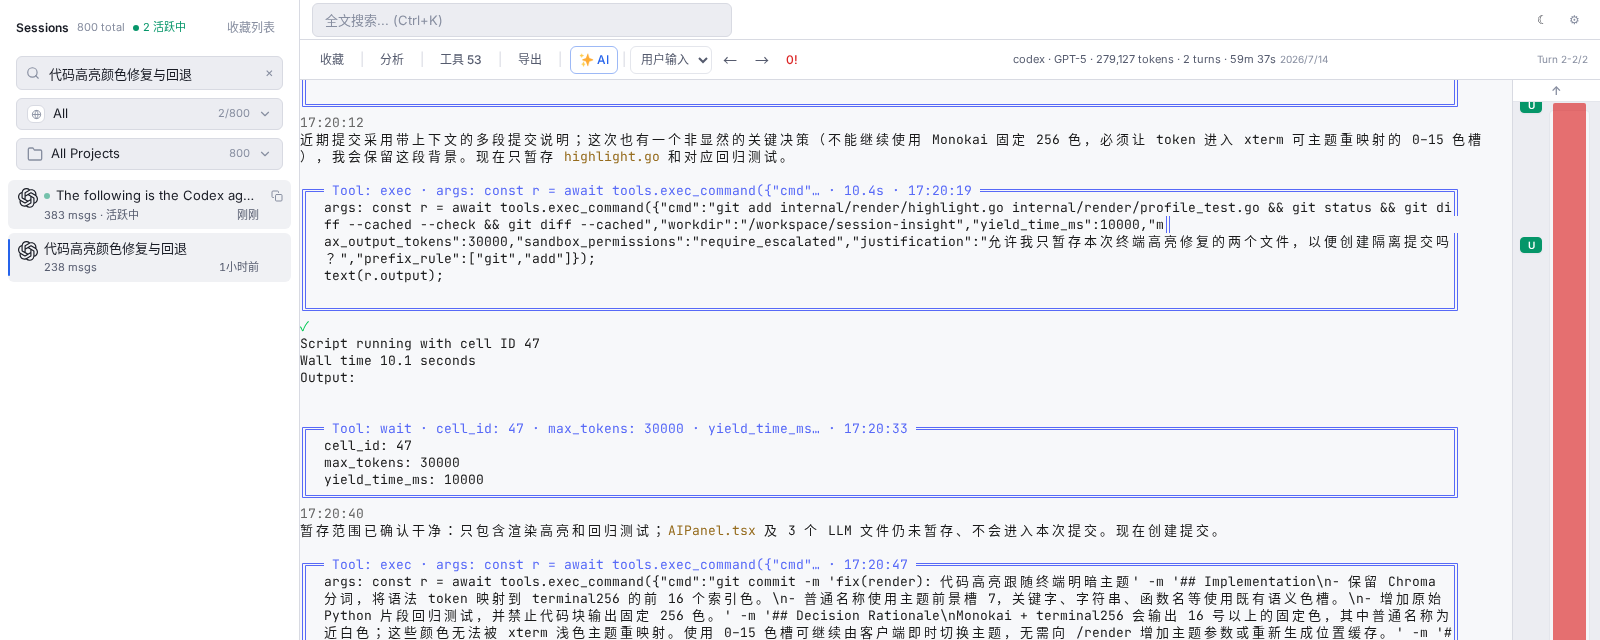
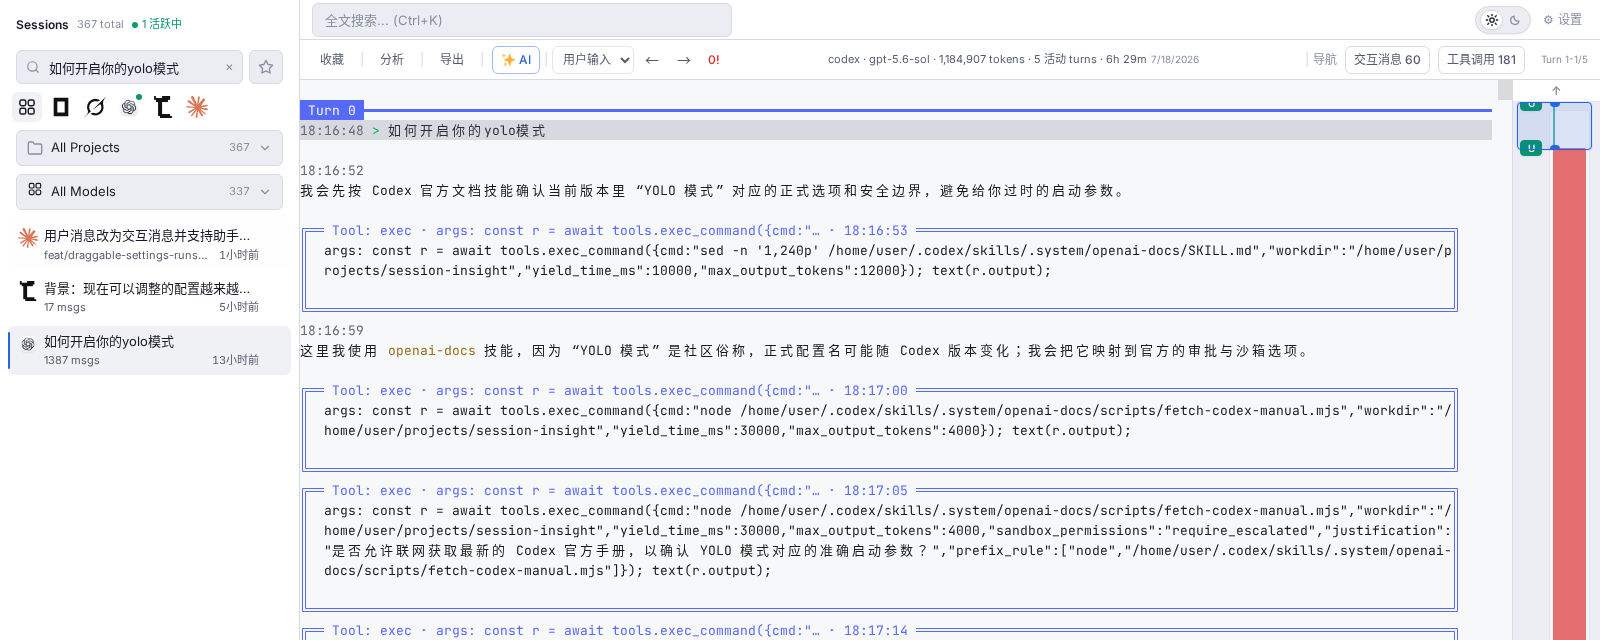
Refresh README for the next release
What:
- Update English and Chinese README highlights for six agents, interaction navigation, expanded search, personalization, and runtime commands.
- Refresh the existing product screenshots and add interaction-panel and font-settings captures.

How:
- Extend the reproducible Playwright capture workflow from three images to five.
- Keep captures stable with a snapshot EventSource and sanitize paths, usernames, and emails before rendering.

Why:
- The README and screenshots no longer represented the features added since v0.2.0.
- Release documentation needs current, privacy-reviewed visuals generated from the full local app.

Next:
- Review and merge the pull request, then use the release workflow for the next tagged version.

Gaps:
- None for this commit.

diff --git a/README.md b/README.md
@@ -2,7 +2,7 @@
 
 [![CI](https://github.com/bbsteel/session-insight/actions/workflows/ci.yml/badge.svg)](https://github.com/bbsteel/session-insight/actions/workflows/ci.yml)
 
-A local-first web app for browsing and analyzing AI coding agent sessions through terminal-native replay. It reconstructs ANSI-styled conversations, tool calls, and code output in an interactive terminal, while session discovery, indexing, search, and replay stay on your machine. AI generation is opt-in and may send selected session context to a provider you configure.
+A local-first web app for browsing, replaying, and analyzing AI coding agent sessions. It reconstructs ANSI-styled conversations, tool calls, and code output in an interactive terminal, while discovery, indexing, search, and replay stay on your machine. AI generation is opt-in and only uses a provider you configure.
 
 [中文](README_ZH.md)
 
@@ -12,16 +12,21 @@ A local-first web app for browsing and analyzing AI coding agent sessions throug
 
 ## Highlights
 
-- **Multi-agent session library** — auto-discover and index sessions from five coding agents, with live list refresh and live tail for active sessions
-- **Terminal replay and navigation** — replay ANSI output, fold tool calls, highlight code, use the semantic minimap, and jump between user messages, turns, anomalies, and compaction points
-- **Search and organization** — full-text search across sessions, in-terminal regex/case/whole-word search, project and agent filters, plus bookmarks with notes
+- **Multi-agent session library** — auto-discover and index sessions from six coding agents, with live list refresh, accurate active-state detection, and live tail for running sessions
+- **Terminal-native replay** — preserve ANSI output, formatted assistant text, tool calls, code, and errors; fold noisy details and follow active sessions as they grow
+- **Fast session navigation** — start at the first prompt, keep the current user message visible while scrolling, use the semantic minimap, or jump through the combined user/assistant interaction panel
+- **Search and organization** — search metadata, prompts, assistant replies, skills, tool inputs, and errors across sessions while background indexing reports progress; narrow results by project or agent and keep bookmarks with notes
 - **Tool, diff, and code inspection** — filter tool calls and jump to their source turn; inspect inline or side-by-side diffs; open referenced files in the structured code reader or your editor
 - **Usage analytics** — inspect prompt, output, and cache tokens, cost estimates, tool usage, errors, anomalies, continuation pressure, and per-turn trends
 - **Session lifecycle tools** — export sessions, copy shell-specific resume commands, and safely delete sessions with running-process protection and supported force-stop flows
 - **Optional AI assistance** — generate summaries, titles, and handoff prompts through a configured OpenAI-compatible API or local ACP agent
-- **Desktop-friendly UI** — resizable panels and dark/light themes for a local developer workflow
+- **Desktop personalization** — use light or dark themes, recognizable agent icons, a custom user avatar, resizable panels, and independent UI/terminal font and size controls
 
 ## More Screenshots
+
+| Interaction messages | Settings and fonts |
+|:--:|:--:|
+| ![Combined user and assistant message navigation](assets/screenshots/interaction.png) | ![Settings center with UI and terminal font controls](assets/screenshots/settings.png) |
 
 | Session analytics | Structured code reader |
 |:--:|:--:|
@@ -38,6 +43,7 @@ Session Insight auto-discovers sessions from the following agents:
 | [GitHub Copilot](https://github.com/features/copilot) | `~/.copilot/session-state/` |
 | [opencode](https://opencode.ai) | opencode SQLite database (auto-resolved) |
 | [Chrys](https://github.com/chrislatinae/chrys) | `~/.chrys/sessions/` |
+| [Grok](https://grok.com) | `~/.grok/sessions/` |
 
 ## Getting Started
 
@@ -55,6 +61,14 @@ bash run.sh all
 ```
 
 The app starts at **http://127.0.0.1:8080** and opens automatically in your browser.
+
+Useful runtime commands:
+
+```bash
+./run.sh status       # list the current app and linked-worktree instances
+./run.sh restart      # rebuild and restart this checkout
+./run.sh stop         # stop only this checkout's instance
+```
 
 ### Windows
 

diff --git a/README_ZH.md b/README_ZH.md
@@ -2,7 +2,7 @@
 
 [![CI](https://github.com/bbsteel/session-insight/actions/workflows/ci.yml/badge.svg)](https://github.com/bbsteel/session-insight/actions/workflows/ci.yml)
 
-一款本地优先的 AI 编程 Agent 会话浏览、终端化回放与分析工具。它在交互式终端中重现带 ANSI 样式的对话、工具调用和代码输出；会话发现、索引、搜索和回放均在本机运行。AI 生成功能需主动启用，并可能向你配置的模型服务发送选定的会话上下文。
+一款本地优先的 AI 编程 Agent 会话浏览、回放与分析工具。它在交互式终端中重现带 ANSI 样式的对话、工具调用和代码输出；会话发现、索引、搜索和回放均在本机运行。AI 生成功能需主动启用，且只使用你配置的模型服务。
 
 [English](README.md)
 
@@ -12,16 +12,21 @@
 
 ## 功能亮点
 
-- **多 Agent 会话库** — 自动发现并索引 5 种编程 Agent 的会话，会话列表实时刷新，活跃会话可实时追尾
-- **终端回放与导航** — 回放 ANSI 输出、折叠工具调用、高亮代码，并通过语义小地图在用户输入、Turn、异常和上下文压缩点之间跳转
-- **搜索与整理** — 跨会话全文搜索，终端内支持正则、大小写和全词搜索；可按项目和 Agent 筛选，并用带备注的收藏夹整理会话
+- **多 Agent 会话库** — 自动发现并索引 6 种编程 Agent 的会话，会话列表实时刷新，准确识别活跃状态，并实时追尾运行中的会话
+- **终端原生回放** — 保留 ANSI 输出、助手排版、工具调用、代码与错误信息；可折叠冗长细节，并持续跟随活跃会话
+- **快速会话导航** — 默认从首条提示词开始，通过滚动置顶的当前用户消息、语义小地图，或合并用户消息与助手回复的交互消息面板快速跳转
+- **搜索与整理** — 在后台索引并显示进度，可跨会话检索元数据、提示词、助手回复、Skill、工具输入和错误；支持项目与 Agent 筛选，以及带备注的收藏
 - **工具、Diff 与代码查看** — 筛选工具调用并跳回原 Turn；查看内联或并排 Diff；在结构化代码阅读器或本机编辑器中打开会话提及的文件
 - **用量分析** — 查看输入、输出和缓存 Token，费用估算、工具用量、错误、异常、续写压力与逐 Turn 趋势
 - **会话生命周期工具** — 导出会话、复制按 Shell 生成的恢复命令，以及在运行进程保护和可用的强制停止流程下安全删除会话
 - **可选 AI 辅助** — 通过配置的 OpenAI 兼容 API 或本机 ACP Agent 生成会话总结、标题和交接提示词
-- **桌面开发工具体验** — 支持可调整面板和深色 / 浅色主题
+- **桌面个性化** — 支持深色 / 浅色主题、Agent 图标、自定义用户头像、可调整面板，以及相互独立的界面/终端字体和字号
 
 ## 更多截图
+
+| 交互消息 | 设置与字体 |
+|:--:|:--:|
+| ![合并用户消息与助手回复的导航面板](assets/screenshots/interaction.png) | ![提供界面和终端字体控制的设置中心](assets/screenshots/settings.png) |
 
 | 会话分析 | 结构化代码阅读器 |
 |:--:|:--:|
@@ -38,6 +43,7 @@ Session Insight 自动发现以下 Agent 的会话数据：
 | [GitHub Copilot](https://github.com/features/copilot) | `~/.copilot/session-state/` |
 | [opencode](https://opencode.ai) | opencode SQLite 数据库（自动定位） |
 | [Chrys](https://github.com/chrislatinae/chrys) | `~/.chrys/sessions/` |
+| [Grok](https://grok.com) | `~/.grok/sessions/` |
 
 ## 快速开始
 
@@ -55,6 +61,14 @@ bash run.sh all
 ```
 
 启动后访问 **http://127.0.0.1:8080**，浏览器会自动打开。
+
+常用运行命令：
+
+```bash
+./run.sh status       # 列出当前应用及 linked worktree 实例
+./run.sh restart      # 重新构建并重启当前 checkout
+./run.sh stop         # 只停止当前 checkout 的实例
+```
 
 ### Windows
 

diff --git a/assets/screenshots/README.md b/assets/screenshots/README.md
@@ -1,6 +1,6 @@
 # README screenshot workflow
 
-The three images in this directory are reproducible captures of the running app, not hand-made mockups.
+The five images in this directory are reproducible captures of the running app, not hand-made mockups.
 
 ## Choose a session
 
@@ -9,10 +9,12 @@ Use a completed session from this repository that shows representative terminal 
 The current set intentionally contains:
 
 1. `replay.png` — the primary replay UI, tool calls, filters, and semantic minimap.
-2. `analytics.png` — token/cache totals, tool usage, findings, and per-turn charts.
-3. `code-reader.png` — the file tree, reader, search action, and document outline.
+2. `interaction.png` — combined user/assistant message navigation over terminal replay.
+3. `settings.png` — the settings center's UI and terminal font controls.
+4. `analytics.png` — token/cache totals, tool usage, findings, and per-turn charts.
+5. `code-reader.png` — the file tree, reader, search action, and document outline.
 
-Three images are enough to cover the main workflow without turning the project README into a gallery.
+Together they cover replay, navigation, personalization, analysis, and code inspection without turning the project README into an exhaustive gallery.
 
 ## Capture
 